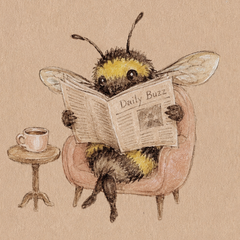
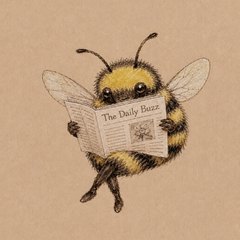
feat(manual+home): sleep video thumbnail + brighter buzz bee
- Manual: the sleep category's week-intro video now shows a real poster (a
  clinician + newborn sleep-schedule thumbnail), same treatment as the grow demo.
- Home: swapped the Buzz card thumbnail to the founder's brighter "Daily Buzz"
  bee (the earlier armchair version read too dark).

diff --git a/apps/mobile/src/screens/manual/ManualScrollV3.tsx b/apps/mobile/src/screens/manual/ManualScrollV3.tsx
@@ -753,6 +753,7 @@ const PLACEHOLDER_WEEK_INTRO: WeekIntroVideo = {
 // hero. Shown only on the Grow category; playback still uses the sample Mux
 // clip until the real video is uploaded to Mux.
 const GROW_DEMO_POSTER = require('../../../assets/manual/grow-spinning.jpg');
+const SLEEP_DEMO_POSTER = require('../../../assets/manual/sleep-thumb.jpg');
 
 // ─── Screen ────────────────────────────────────────────────────────────
 export default function ManualScrollV3() {
@@ -1395,10 +1396,12 @@ export default function ManualScrollV3() {
             <WeekIntroCard
               data={chapter.cat === 'grow'
                 ? { ...weekIntro, title: 'Capturing Spinning Objects', expert_name: 'Grow demo', expert_role: 'watch how' }
+                : chapter.cat === 'sleep'
+                ? { ...weekIntro, title: 'Sample Newborn Sleep Schedule', expert_name: 'Sleep demo', expert_role: 'watch how' }
                 : weekIntro}
               onPress={openWeekIntro}
               lang={lang}
-              posterSource={chapter.cat === 'grow' ? GROW_DEMO_POSTER : undefined}
+              posterSource={chapter.cat === 'grow' ? GROW_DEMO_POSTER : chapter.cat === 'sleep' ? SLEEP_DEMO_POSTER : undefined}
             />
           </View>
         )}
